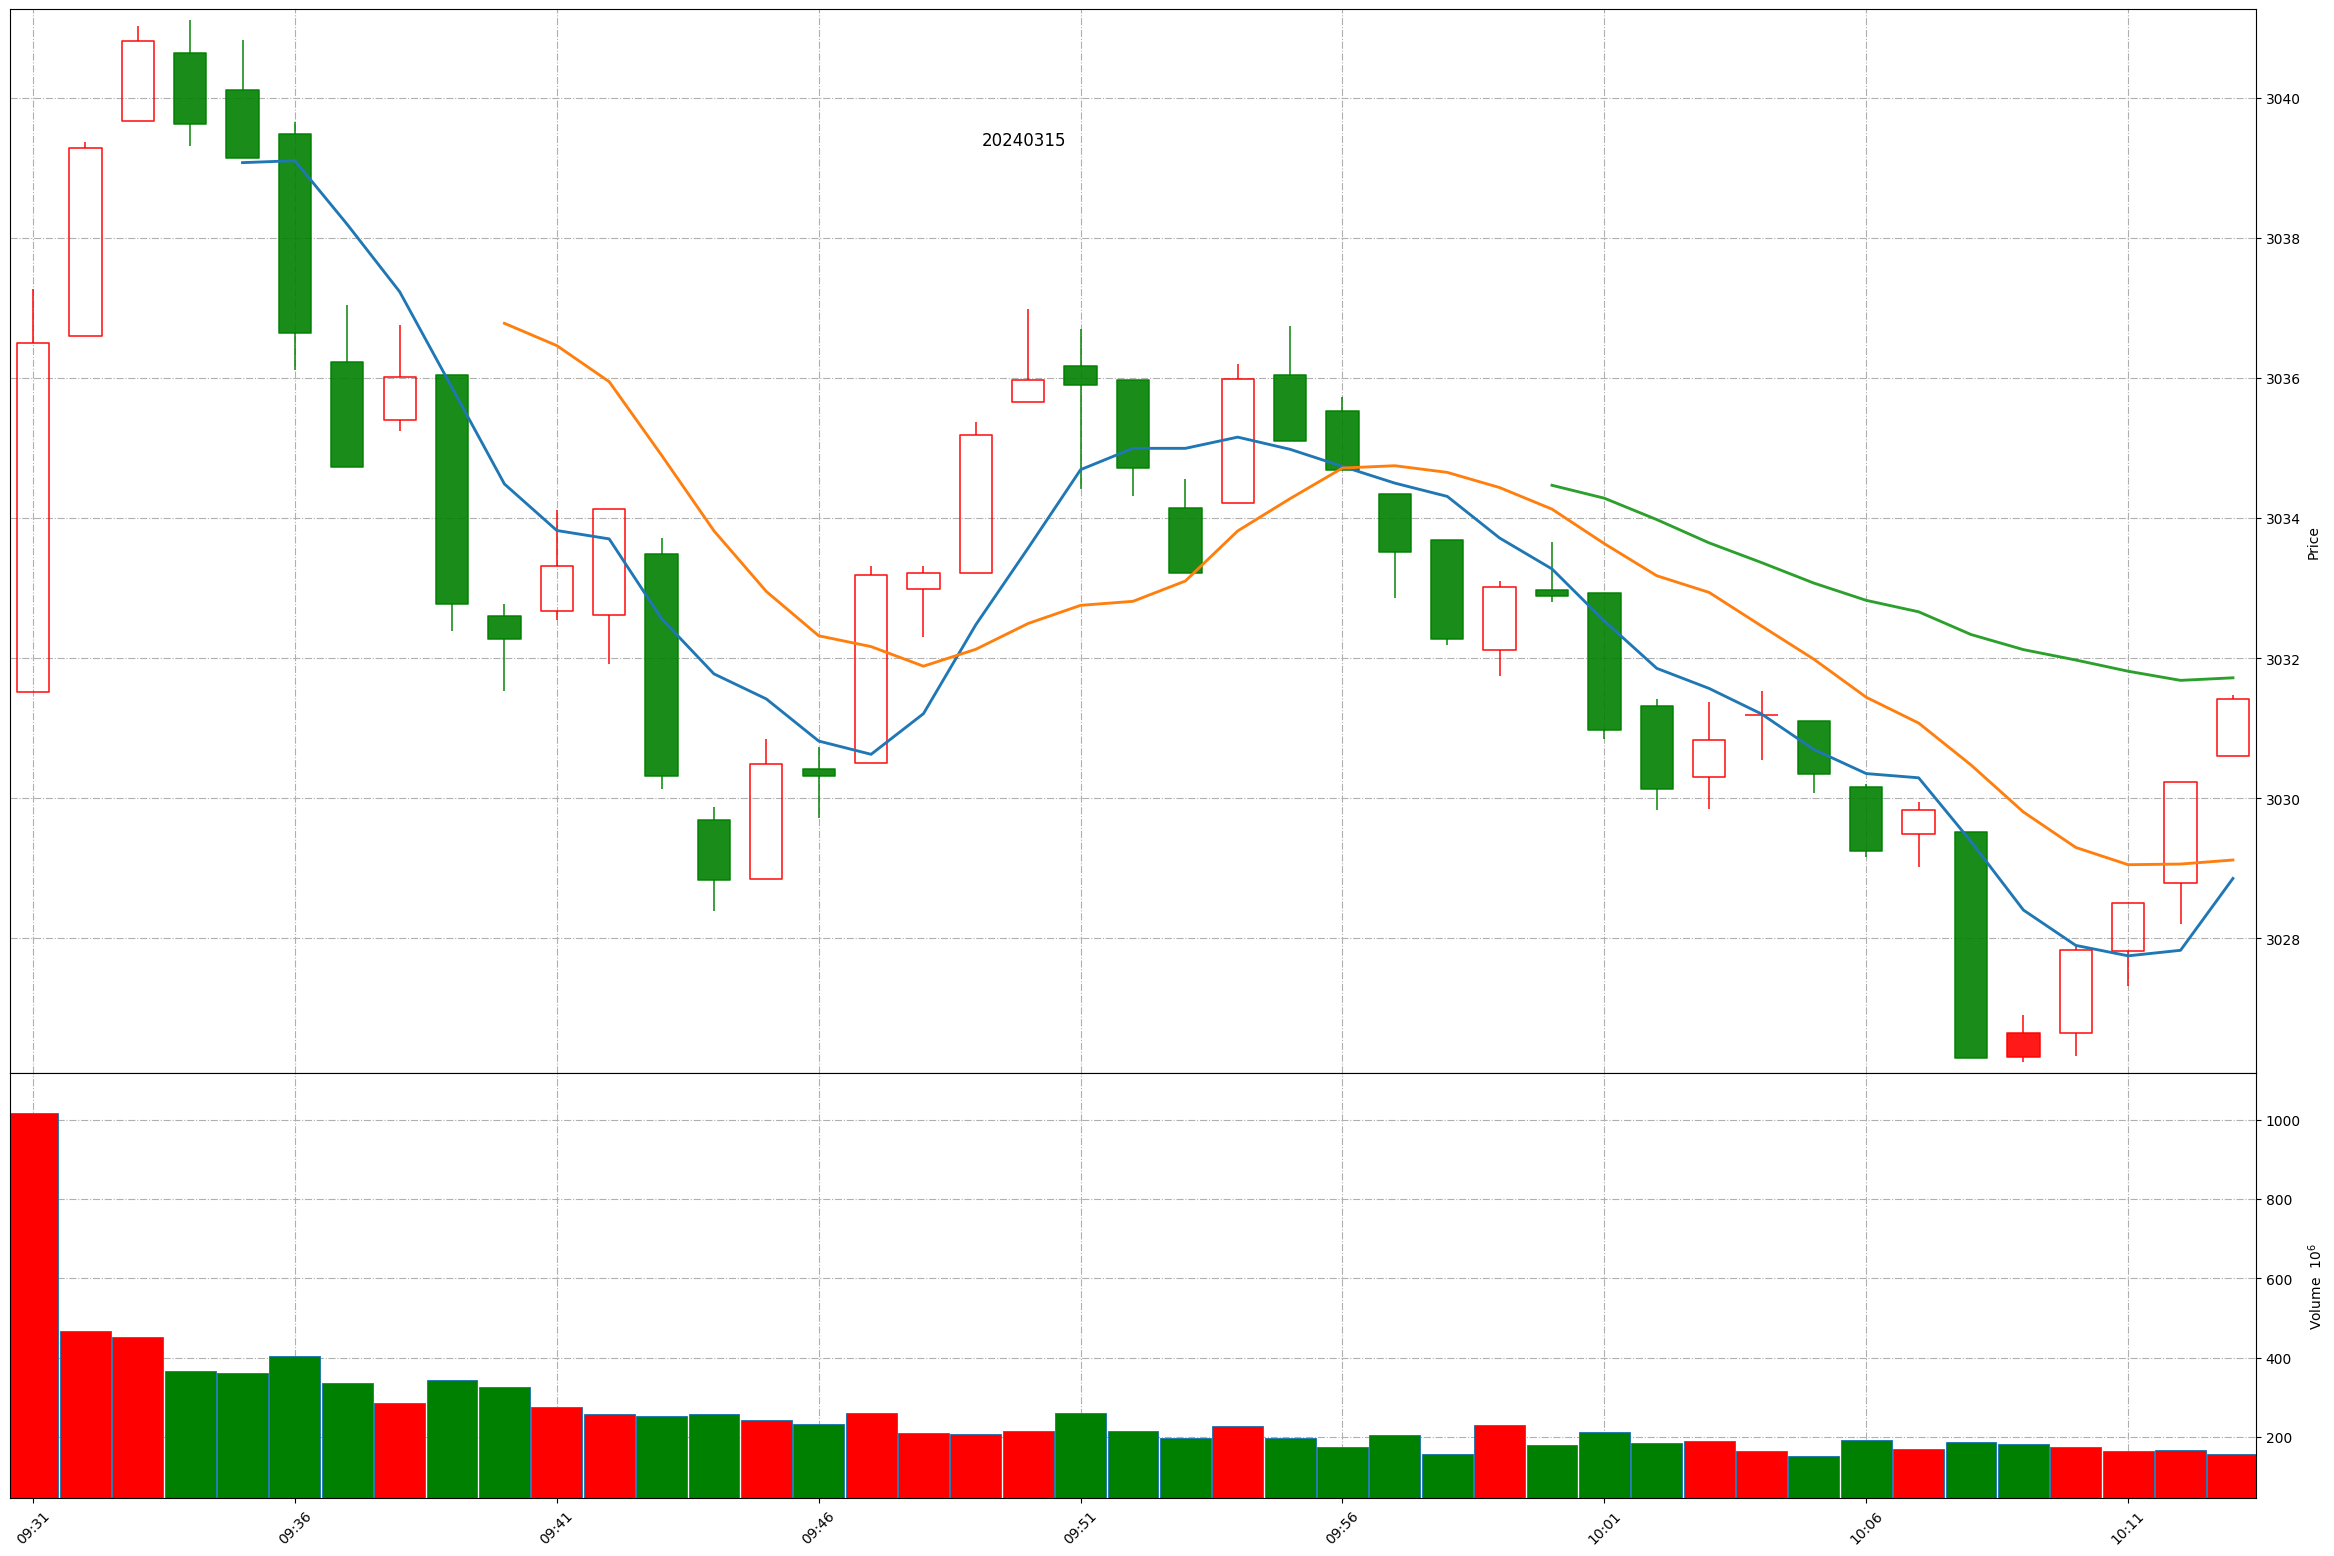
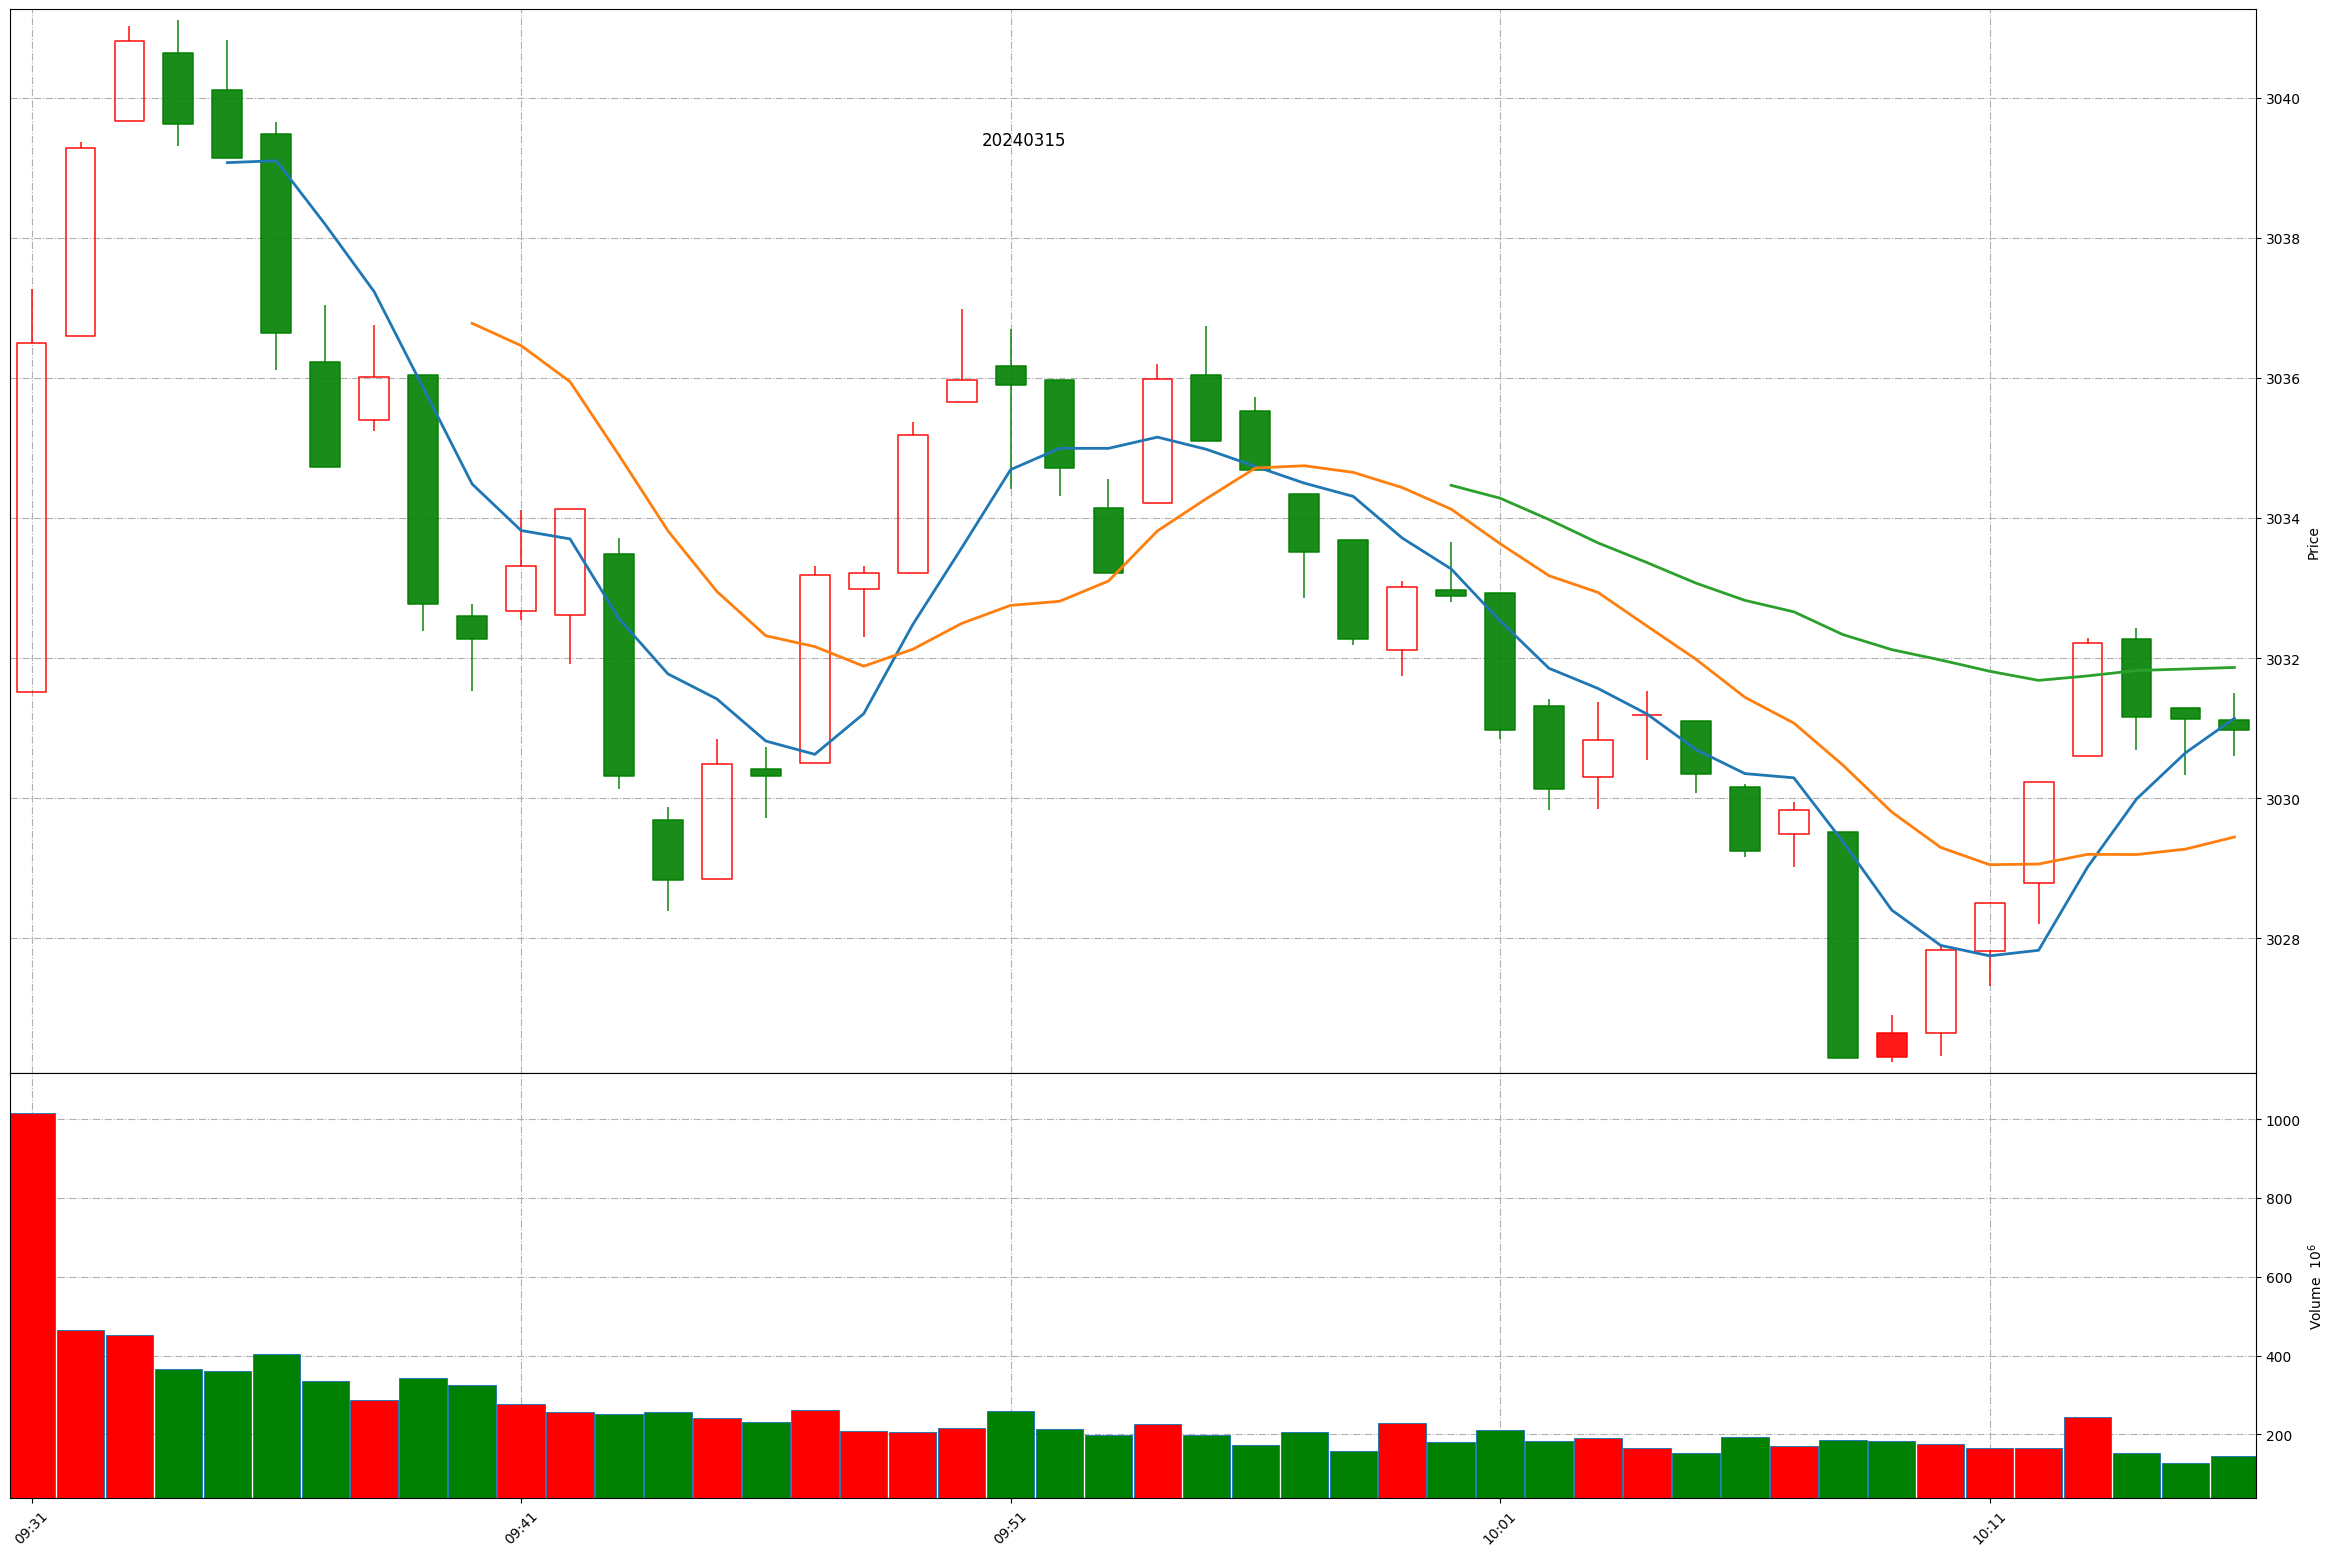
Github action update at 2024-03-15 10:16:11.

diff --git a/README.md b/README.md
@@ -1,11 +1,11 @@
 
 # Daily-A-share-market-quotes 每日 A 股指数（5min 更新）- 20240315
 
-### 上证指数 20240315 10:12
+### 上证指数 20240315 10:16
 ![](./fig/2024/3/20240315-sh000001.png)
 
-### 深证成指 20240315 10:12
+### 深证成指 20240315 10:16
 ![](./fig/2024/3/20240315-sz399001.png)
 
-### 北证50 20240315 10:12
+### 北证50 20240315 10:16
 ![](./fig/2024/3/20240315-bj899050.png)
